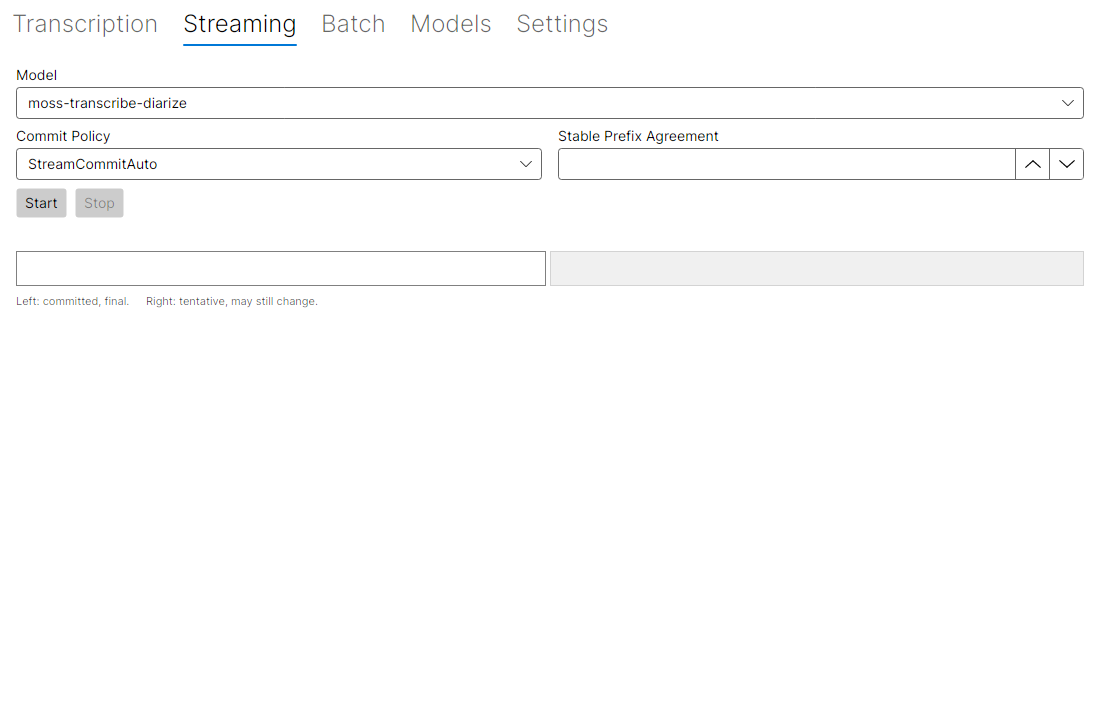
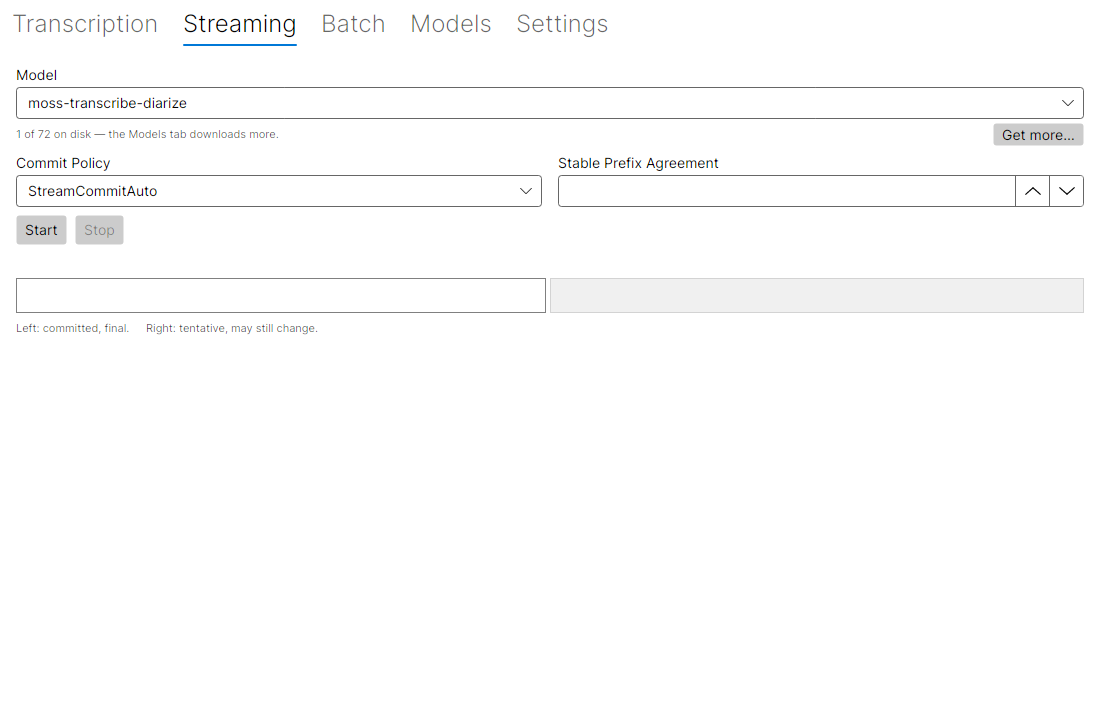
Document the model pickers, and regenerate the pictures they changed
The pickers only offer what is on disk now, so the screenshots of the
three tabs that carry one are out of date. Regenerated: exactly those
three changed, and Models and Settings are byte-for-byte identical to
what was committed — which is the point of the generator.

docs/index.md gains a section on what the pickers offer, because it is
the first thing a new reader meets: what "available" means, where the
other 71 models are, and that the list is re-read on every tab change so
the guidance closes its own loop. README's cache bullet now says the
same thing in one line, tied to the cache it shares with the CLI.

docs/ui.md gets it as a paragraph under the tab pictures rather than a
sixth tab section, so the five-tab structure still reads as five.

license-check and ReadmeExamplesTest pass.

diff --git a/docs/index.md b/docs/index.md
@@ -57,6 +57,26 @@ are the wrapper's: the [thread-safety rule](concurrency.md#thread-safety) and th
 [native abort on long streams](streaming-bench.md) apply unchanged. What each tab does:
 [Desktop app](ui.md).
 
+## What the model pickers offer
+
+The three tabs that run a model — Transcription, Streaming and Batch — list **only the
+aliases already on disk**, so an entry means you can run it now rather than that picking it
+will start a download. With a fresh cache the list is empty and the button is disabled.
+
+Under every one of those pickers sits a count and a **Get more…** button:
+
+```
+1 of 72 on disk — the Models tab downloads more.    [Get more…]
+```
+
+The button is always there, not only when the list has run out: a picker with a single entry
+does not tell you the other 71 exist. It switches to the Models tab, and the list is re-read
+on every tab change — otherwise the guidance would point at a download that never appears,
+because the pickers are built once when the window opens.
+
+Which models those 72 are, and what the Models tab does with them:
+[Desktop app — Models](ui.md#models).
+
 ## Or call it from C#
 
 ```bash

diff --git a/docs/ui.md b/docs/ui.md
@@ -49,6 +49,15 @@ counts whatever it has fetched. Regenerate them with:
 dotnet run --project samples/UiScreenshot           # writes into docs/assets/images
 ```
 
+**What the three model pickers offer.** Transcription, Streaming and Batch list only the
+aliases already on disk, so an entry means you can run it now — with a fresh cache the list
+is empty and the button that starts a run is disabled. Under each picker sits a count and a
+`Get more…` button that switches to the Models tab, always visible rather than only once the
+list has run out: a picker with one entry does not tell you the other 71 exist. The list is
+re-read on every tab change, because downloads happen in Models while the pickers are built
+once when the window opens — without that, the guidance would point at a download that never
+appears.
+
 ### Transcription
 
 ![The Transcription tab.]({{ '/assets/images/ui-transcription.png' | relative_url }})

diff --git a/README.md b/README.md
@@ -152,7 +152,10 @@ Five tabs, one per job:
 Three things worth knowing before you rely on it:
 
 - **It shares the model cache with the `transcribe` CLI.** A model downloaded in one is
-  there for the other, and the Models tab can delete what the CLI fetched.
+  there for the other, and the Models tab can delete what the CLI fetched. The three tabs
+  that run a model list **only what is on disk**, so a model fetched by the CLI appears in
+  them without you having to fetch it again; under each picker a count and a `Get more…`
+  button say how to get the rest.
 - **It asks the model what it can do, instead of guessing from the name.** Loading is the
   only way the native library answers — the manifest declares no capabilities — so a model
   that is not on disk keeps every option visible and the app says so underneath the picker.
